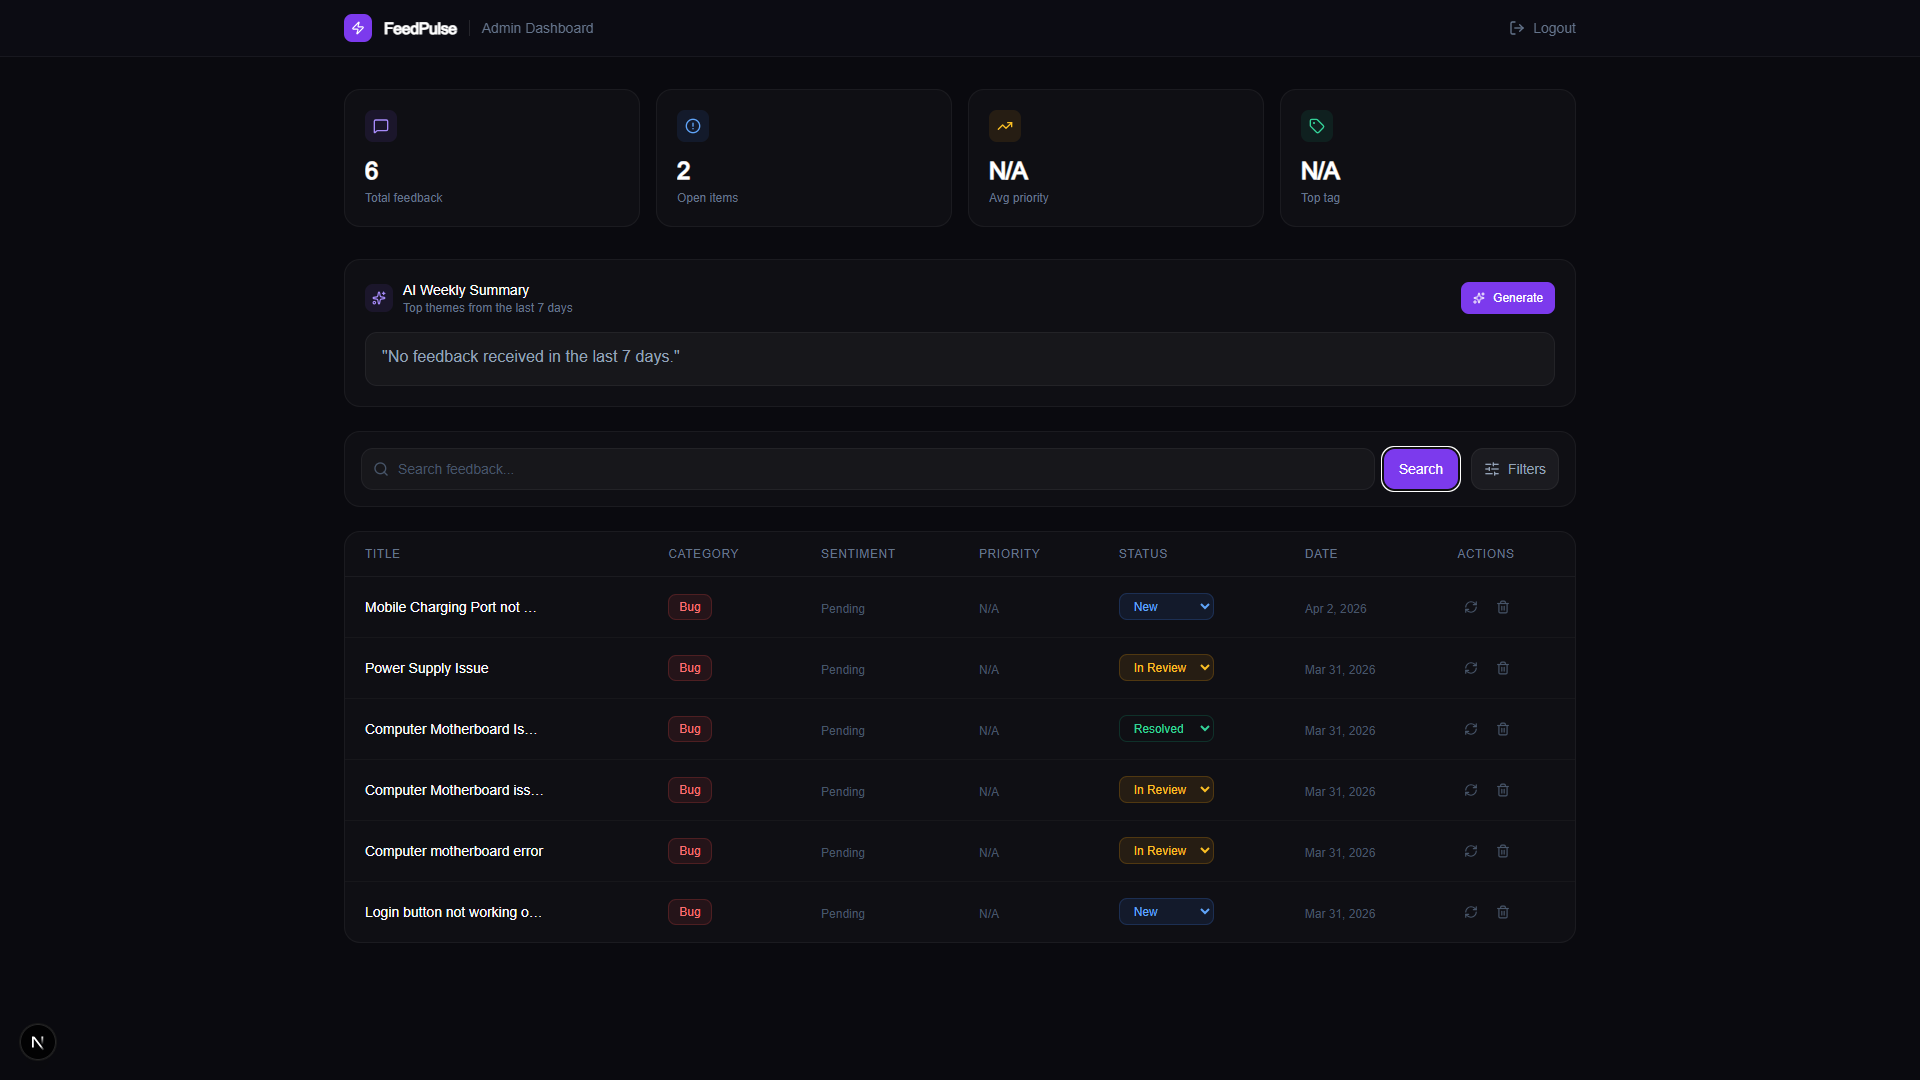
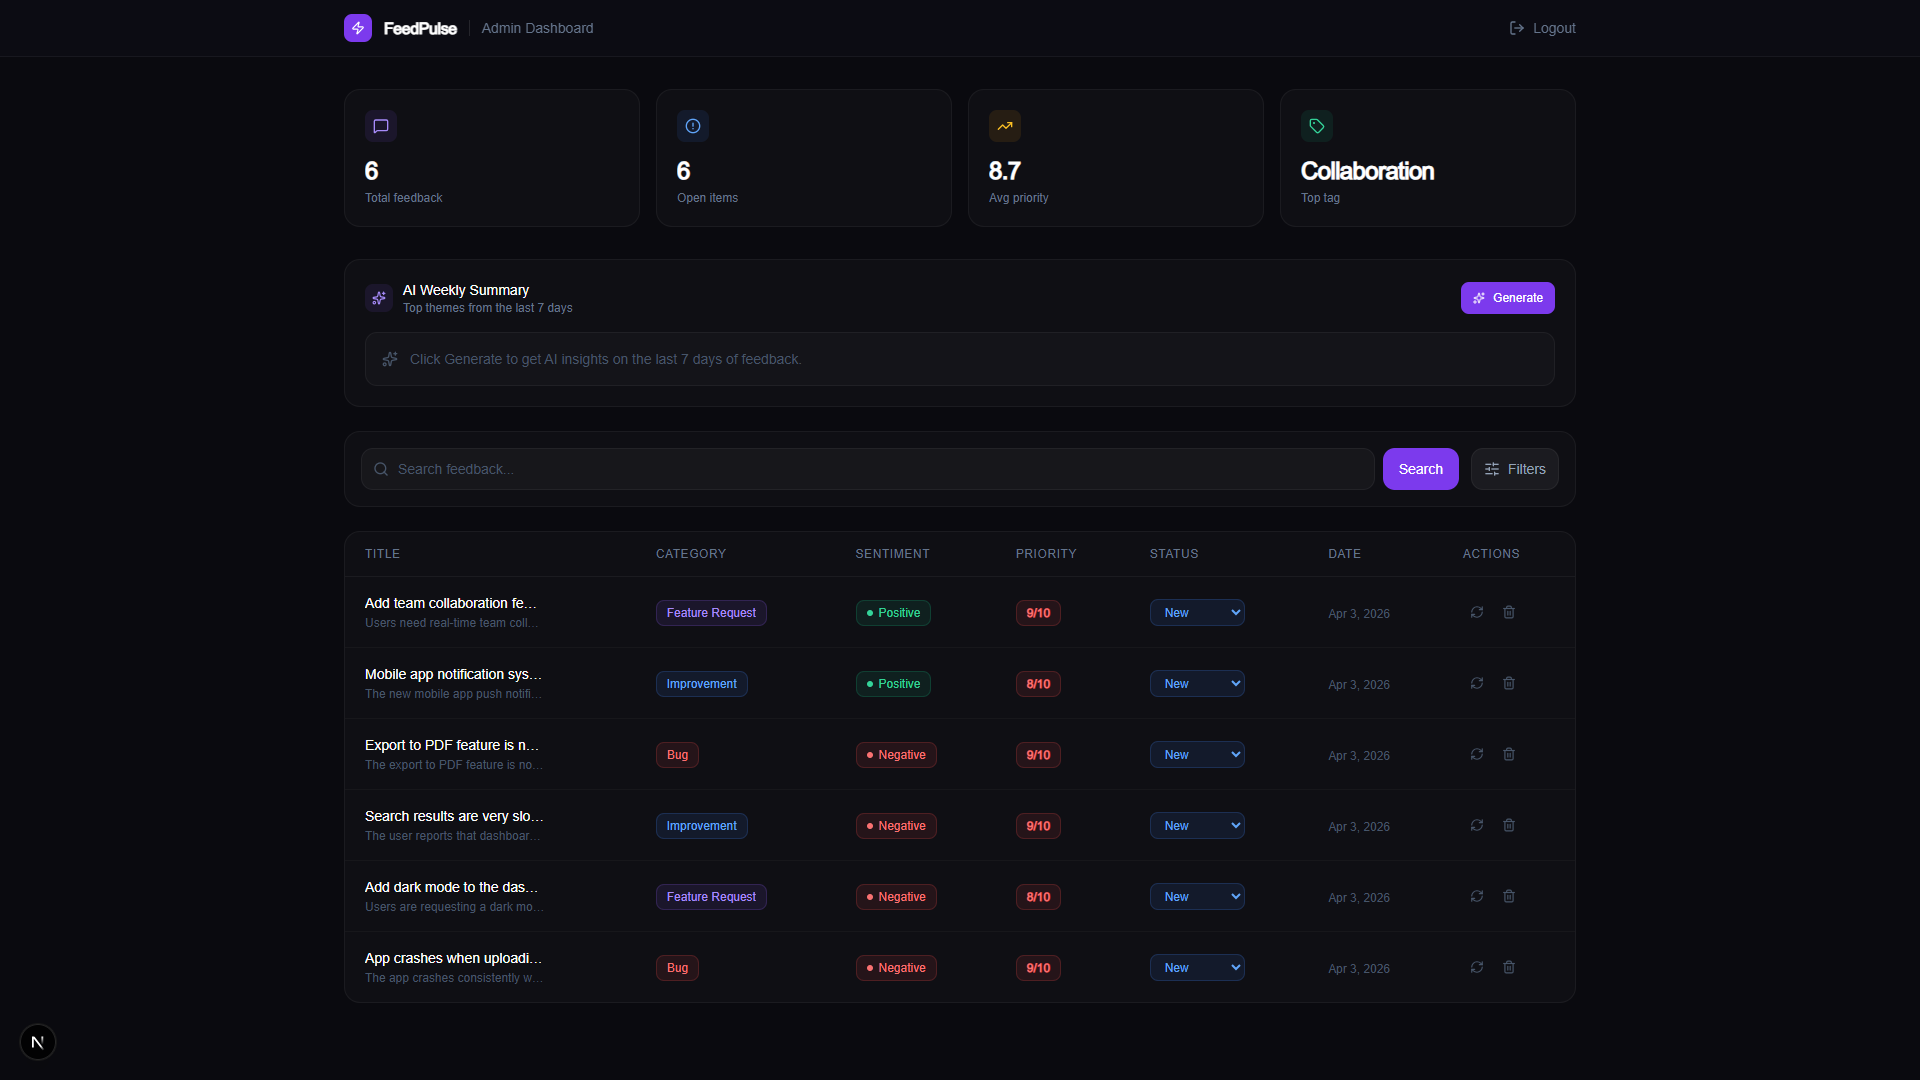
Add AI summary feature and enhance dashboard UI
- Implement AI summary generation in feedback controller with improved prompt structure.
- Introduce smart fallback for sentiment analysis in gemini service.
- Update dashboard to display AI summary with better formatting and user experience.
- Add new screenshots for AI summary feature.

diff --git a/backend/src/services/gemini.service.ts b/backend/src/services/gemini.service.ts
@@ -8,6 +8,42 @@ export interface GeminiAnalysis {
   tags: string[];
 }
 
+const smartFallback = (title: string, description: string): GeminiAnalysis => {
+  const text = (title + ' ' + description).toLowerCase();
+
+  const isNegative =
+    text.includes('crash') || text.includes('broken') ||
+    text.includes('error') || text.includes('bug') ||
+    text.includes('fail') || text.includes('not working') ||
+    text.includes('damage') || text.includes('slow') ||
+    text.includes('issue') || text.includes('problem');
+
+  const isPositive =
+    text.includes('great') || text.includes('love') ||
+    text.includes('amazing') || text.includes('excellent') ||
+    text.includes('brilliant') || text.includes('awesome') ||
+    text.includes('perfect') || text.includes('fantastic');
+
+  const sentiment = isNegative ? 'Negative' : isPositive ? 'Positive' : 'Neutral';
+  const priority = isNegative ? 8 : isPositive ? 4 : 5;
+
+  const words = title
+    .toLowerCase()
+    .replace(/[^a-z\s]/g, '')
+    .split(' ')
+    .filter((w) => w.length > 3)
+    .slice(0, 3)
+    .map((w) => w.charAt(0).toUpperCase() + w.slice(1));
+
+  return {
+    category: 'Improvement',
+    sentiment,
+    priority_score: priority,
+    summary: `${title} — ${description.slice(0, 100)}${description.length > 100 ? '...' : ''}`,
+    tags: words.length > 0 ? words : ['Feedback', 'User Request'],
+  };
+};
+
 export const analyzeFeedback = async (
   title: string,
   description: string
@@ -36,7 +72,7 @@ Return exactly this JSON structure:
       const req = https.request(
         {
           hostname: 'generativelanguage.googleapis.com',
-         path: `/v1beta/models/gemini-2.0-flash-lite:generateContent?key=${apiKey}`,
+          path: `/v1beta/models/gemini-2.5-flash:generateContent?key=${apiKey}`,
           method: 'POST',
           headers: {
             'Content-Type': 'application/json',
@@ -56,14 +92,20 @@ Return exactly this JSON structure:
 
     const json = JSON.parse(result);
 
-    // Log full response to debug
     console.log('Gemini raw response:', JSON.stringify(json, null, 2));
+
+    // Quota exhausted — use smart fallback
+    if (json.error?.code === 429) {
+      console.log('Quota exhausted — using smart fallback');
+      return smartFallback(title, description);
+    }
 
     const text = json.candidates?.[0]?.content?.parts?.[0]?.text?.trim();
 
+    // Empty response — use smart fallback
     if (!text) {
-      console.error('Gemini empty response:', json);
-      return null;
+      console.log('Empty response — using smart fallback');
+      return smartFallback(title, description);
     }
 
     const cleaned = text.replace(/```json/g, '').replace(/```/g, '').trim();
@@ -72,6 +114,7 @@ Return exactly this JSON structure:
     return parsed;
   } catch (error) {
     console.error('Gemini analysis error:', error);
-    return null;
+    console.log('Error occurred — using smart fallback');
+    return smartFallback(title, description);
   }
 };

diff --git a/frontend/app/dashboard/page.tsx b/frontend/app/dashboard/page.tsx
@@ -163,14 +163,17 @@ export default function DashboardPage() {
     finally { setActionLoading(null); }
   };
 
-  const handleGetSummary = async () => {
-    setSummaryLoading(true);
-    try {
-      const res = await getAISummary();
-      setAiSummary(JSON.stringify(res.data.summary, null, 2));
-    } catch { toast.error('Failed to get summary'); }
-    finally { setSummaryLoading(false); }
-  };
+const handleGetSummary = async () => {
+  setSummaryLoading(true);
+  try {
+    const res = await getAISummary();
+    setAiSummary(res.data.summary);
+  } catch {
+    toast.error('Failed to get summary');
+  } finally {
+    setSummaryLoading(false);
+  }
+};
 
   const handleSearch = (e: React.FormEvent) => {
     e.preventDefault();
@@ -285,18 +288,47 @@ export default function DashboardPage() {
               Generate
             </button>
           </div>
-          {aiSummary ? (
-            <pre className="text-slate-400 text-xs bg-white/[0.03] border border-white/5 rounded-xl p-4 overflow-auto whitespace-pre-wrap font-mono leading-relaxed">
-              {aiSummary}
-            </pre>
-          ) : (
-            <div className="flex items-center gap-3 bg-white/[0.02] border border-white/5 rounded-xl p-4">
-              <Sparkles className="w-4 h-4 text-slate-600 shrink-0" />
-              <p className="text-slate-600 text-sm">
-                Click Generate to get AI insights on the last 7 days of feedback.
-              </p>
-            </div>
-          )}
+         {aiSummary ? (
+  <div className="space-y-4">
+    {aiSummary.split('\n\n').map((block, i) => {
+      const isHeading = block.startsWith('TOP 3') || block.startsWith('OVERALL');
+      const isNumbered = /^\d\./.test(block.trim());
+
+      if (isHeading) {
+        return (
+          <p key={i} className="text-xs font-semibold text-violet-400 uppercase tracking-widest">
+            {block.trim()}
+          </p>
+        );
+      }
+
+      if (isNumbered) {
+        const lines = block.trim().split('\n');
+        const title = lines[0];
+        const body = lines.slice(1).join(' ');
+        return (
+          <div key={i} className="bg-white/[0.02] border border-white/5 rounded-xl p-4">
+            <p className="text-sm font-semibold text-white mb-1">{title}</p>
+            {body && <p className="text-sm text-slate-400 leading-relaxed">{body}</p>}
+          </div>
+        );
+      }
+
+      return (
+        <p key={i} className="text-sm text-slate-400 leading-relaxed">
+          {block.trim()}
+        </p>
+      );
+    })}
+  </div>
+) : (
+  <div className="flex items-center gap-3 bg-white/[0.02] border border-white/5 rounded-xl p-4">
+    <Sparkles className="w-4 h-4 text-slate-600 shrink-0" />
+    <p className="text-slate-600 text-sm">
+      Click Generate to get AI insights on the last 7 days of feedback.
+    </p>
+  </div>
+)}
         </div>
 
         {/* Search + Filters */}

diff --git a/backend/src/controllers/feedback.controller.ts b/backend/src/controllers/feedback.controller.ts
@@ -308,24 +308,78 @@ export const getAISummary = async (
       return;
     }
 
-    const { analyzeFeedback: analyzeWithGemini } = await import(
-      '../services/gemini.service'
-    );
-
     const feedbackText = recentFeedbacks
       .map((f) => `- ${f.title}: ${f.ai_summary || f.description}`)
       .join('\n');
 
-    const summary = await analyzeWithGemini(
-      'Weekly Summary Request',
-      `Summarise these feedbacks and identify top 3 themes:\n${feedbackText}`
-    );
+    const prompt = `You are a product analyst. Analyse these product feedback items and identify the top 3 themes. 
+    
+Feedback from the last 7 days:
+${feedbackText}
+
+Return ONLY a clean plain text response in this exact format with no JSON, no markdown, no code blocks:
+
+TOP 3 THEMES
+
+1. [Theme Name]
+[2-3 sentence explanation of this theme and why it matters]
+
+2. [Theme Name]
+[2-3 sentence explanation of this theme and why it matters]
+
+3. [Theme Name]
+[2-3 sentence explanation of this theme and why it matters]
+
+OVERALL INSIGHT
+[One paragraph summarising the overall product health based on this feedback]`;
+
+    const body = JSON.stringify({
+      contents: [{ parts: [{ text: prompt }] }],
+    });
+
+    const https = await import('https');
+    const apiKey = process.env.GEMINI_API_KEY;
+
+    const result = await new Promise<string>((resolve, reject) => {
+      const req2 = https.default.request(
+        {
+          hostname: 'generativelanguage.googleapis.com',
+          path: `/v1beta/models/gemini-2.5-flash:generateContent?key=${apiKey}`,
+          method: 'POST',
+          headers: {
+            'Content-Type': 'application/json',
+            'Content-Length': Buffer.byteLength(body),
+          },
+        },
+        (res2) => {
+          let data = '';
+          res2.on('data', (chunk) => (data += chunk));
+          res2.on('end', () => resolve(data));
+        }
+      );
+      req2.on('error', reject);
+      req2.write(body);
+      req2.end();
+    });
+
+    const json = JSON.parse(result);
+    const text = json.candidates?.[0]?.content?.parts?.[0]?.text?.trim();
+
+    if (!text) {
+      res.status(200).json({
+        success: true,
+        message: 'Summary generated',
+        error: null,
+        data: { summary: 'Unable to generate summary at this time.' },
+      });
+      return;
+    }
 
     res.status(200).json({
       success: true,
       message: 'Summary generated successfully',
       error: null,
-      data: { summary },
+      data: { summary: text },
     });
   } catch (error) {
     res.status(500).json({

diff --git a/README.md b/README.md
@@ -154,4 +154,8 @@ Password: admin123456
 ### Admin Dashboard
 ![Dashboard](./screenshots/dashboard.png)
 
+### Ai Summery
+![AI Summary](./screenshots/ai-summary.png) 
+
+![AI Summary](./screenshots/ai-summary-2.png) 
 
